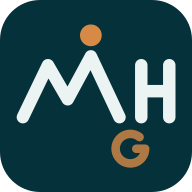
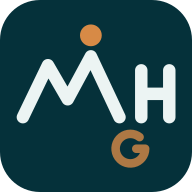
Shorten Goal in the Water's H by three units
The H stood level with the mountain's lower peak; three units shorter it
reads as a letter beside the mountain rather than a continuation of it.
Chosen from a rendered comparison of the current height, three shorter
and five shorter.

diff --git a/src/brand/marks.ts b/src/brand/marks.ts
@@ -165,7 +165,7 @@ export const MARKS: Record<LogoVariant, MarkDefinition> = {
     label: 'Goal in the Water — the G reflected below',
     description:
       'The mountain and an H stand on the shore; what reflects in the water beneath is the amber G.',
-    note: 'The narrative mark: look into the water and the goal is what you find. As in the original, the G is reflected beneath the point where the mountain meets the H, at 80% amber so it reads as submerged without going pale. Three things stack vertically here, so the mountain is drawn as large as the height allows and at the family’s stroke weight, otherwise it reads smaller than the other marks at the same header height; the G is drawn lighter so its counter stays open. Below 48 px it tiers down to the peaks over a single amber point — the G has no definition to keep at that size.',
+    note: 'The narrative mark: look into the water and the goal is what you find. As in the original, the G is reflected beneath the point where the mountain meets the H, at 80% amber so it reads as submerged without going pale. Three things stack vertically here, so the mountain is drawn as large as the height allows and at the family’s stroke weight, otherwise it reads smaller than the other marks at the same header height; the G is drawn lighter so its counter stays open, and the H sits three units short of the lower peak so it reads as a letter beside the mountain rather than level with it. Below 48 px it tiers down to the peaks over a single amber point — the G has no definition to keep at that size.',
     width: 108,
     elements: [
       {
@@ -179,7 +179,7 @@ export const MARKS: Record<LogoVariant, MarkDefinition> = {
       { kind: 'circle', cx: 50.7, cy: 9, r: 7, role: 'accent' },
       {
         kind: 'path',
-        d: 'M 83.1 61.6 L 83.1 28.2 M 83.1 44.9 L 101.1 44.9 M 101.1 28.2 L 101.1 61.6',
+        d: 'M 83.1 61.6 L 83.1 31.5 M 83.1 46.6 L 101.1 46.6 M 101.1 31.5 L 101.1 61.6',
         role: 'form',
         strokeWidth: 8,
         linecap: 'round',
